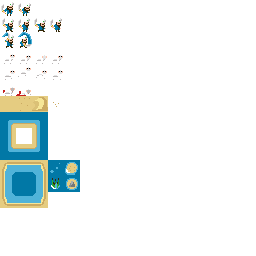
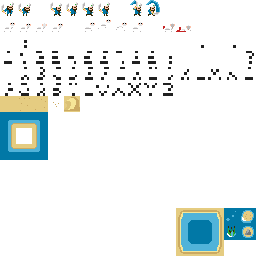
Add letter sprites

diff --git a/htdocs/index.html b/htdocs/index.html
@@ -67,25 +67,23 @@ var M = Math,
 	FA = Float32Array,
 	HERDER_IDLE1 = 0,
 	HERDER_IDLE2 = 1,
-	HERDER_WALK1 = 16,
-	HERDER_WALK2 = 17,
-	HERDER_WALK3 = 18,
-	HERDER_WALK4 = 19,
-	HERDER_ATTACK1 = 32,
-	HERDER_ATTACK2 = 33,
-	LAMB_IDLE1 = 48,
-	LAMB_IDLE2 = 49,
-	LAMB_IDLE3 = 50,
-	LAMB_IDLE4 = 51,
-	LAMB_WALK1 = 64,
-	LAMB_WALK2 = 65,
-	LAMB_WALK3 = 66,
-	LAMB_WALK4 = 67,
-	LAMB_HIT = 80,
-	LAMB_DEAD = 81,
+	HERDER_WALK1 = 3,
+	HERDER_WALK2 = 4,
+	HERDER_WALK3 = 5,
+	HERDER_WALK4 = 6,
+	HERDER_ATTACK1 = 8,
+	HERDER_ATTACK2 = 9,
+	LAMB_IDLE1 = 16,
+	LAMB_IDLE2 = 17,
+	LAMB_IDLE3 = 18,
+	LAMB_IDLE4 = 19,
+	LAMB_WALK1 = 21,
+	LAMB_WALK2 = 22,
+	LAMB_WALK3 = 23,
+	LAMB_WALK4 = 24,
 	SAND1 = 96,
 	SAND2 = 97,
-	DUST = 99,
+	DUST = 98,
 	atlas,
 	canvas,
 	gl,
